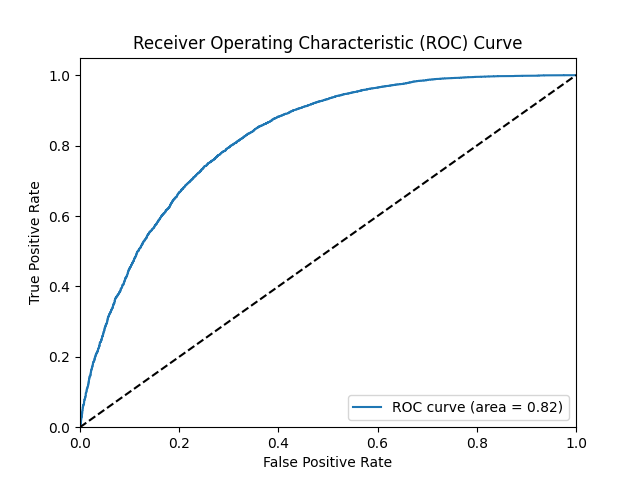
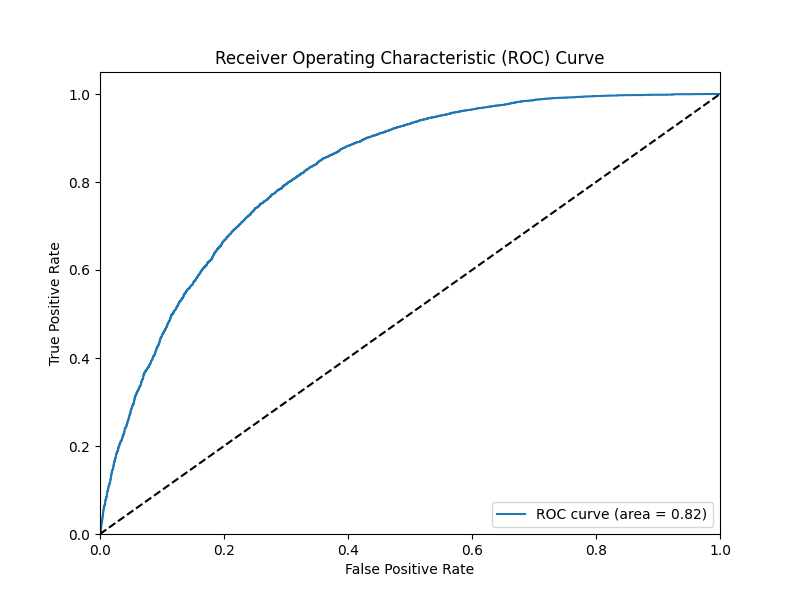
21 july

diff --git a/client/src/components/ModelImages.tsx b/client/src/components/ModelImages.tsx
@@ -1,69 +1,104 @@
-import React, { useState } from 'react';
+import React from 'react';
 
 interface ModelImagesProps {
   onClose: () => void;
 }
 
 const ModelImages: React.FC<ModelImagesProps> = ({ onClose }) => {
-  const [zoomedImage, setZoomedImage] = useState<string | null>(null);
-
-  const handleImageClick = (src: string) => {
-    setZoomedImage(src);
-  };
-
-  const handleCloseZoom = () => {
-    setZoomedImage(null);
-  };
-
   return (
-    <>
-      <div className="fixed inset-0 z-50 flex items-center justify-center bg-black bg-opacity-75 transition-opacity duration-300">
-        <div className="relative w-full max-w-4xl p-8 bg-gray-900 rounded-2xl shadow-2xl transform transition-all duration-300 scale-95 hover:scale-100">
-          <button
-            onClick={onClose}
-            className="absolute top-4 right-4 text-gray-400 hover:text-white transition-colors duration-300"
-          >
-            <svg className="w-8 h-8" fill="none" stroke="currentColor" viewBox="0 0 24 24">
-              <path strokeLinecap="round" strokeLinejoin="round" strokeWidth={2} d="M6 18L18 6M6 6l12 12" />
-            </svg>
-          </button>
-          <h2 className="text-3xl font-extrabold text-white mb-6 text-center">Model Performance</h2>
-          <div className="grid grid-cols-1 md:grid-cols-2 gap-8">
-            <div className="bg-gray-800 p-4 rounded-lg shadow-lg">
-              <h3 className="text-xl font-bold text-white mb-4 text-center">Confusion Matrix</h3>
-              <img
-                src="/confusion_matrix.png"
-                alt="Confusion Matrix"
-                className="w-full h-auto rounded-lg border-2 border-gray-700 cursor-pointer"
-                onClick={() => handleImageClick('/confusion_matrix.png')}
-              />
-            </div>
-            <div className="bg-gray-800 p-4 rounded-lg shadow-lg">
-              <h3 className="text-xl font-bold text-white mb-4 text-center">ROC Curve</h3>
-              <img
-                src="/roc_curve.png"
-                alt="ROC Curve"
-                className="w-full h-auto rounded-lg border-2 border-gray-700 cursor-pointer"
-                onClick={() => handleImageClick('/roc_curve.png')}
-              />
-            </div>
+    <div className="fixed inset-0 z-50 flex items-center justify-center bg-black bg-opacity-75 transition-opacity duration-300">
+      <div className="relative w-full max-w-7xl p-8 bg-gray-900 rounded-2xl shadow-2xl transform transition-all duration-300 scale-95 hover:scale-100 overflow-y-auto max-h-[90vh] no-scrollbar">
+        <button
+          onClick={onClose}
+          className="absolute top-4 right-4 text-gray-400 hover:text-white transition-colors duration-300"
+        >
+          <svg className="w-8 h-8" fill="none" stroke="currentColor" viewBox="0 0 24 24">
+            <path strokeLinecap="round" strokeLinejoin="round" strokeWidth={2} d="M6 18L18 6M6 6l12 12" />
+          </svg>
+        </button>
+        <h2 className="text-3xl font-extrabold text-white mb-6 text-center">Model Performance Analysis</h2>
+        <div className="grid grid-cols-1 lg:grid-cols-2 gap-8">
+          <div className="bg-gray-800 p-4 rounded-lg shadow-lg">
+            <h3 className="text-xl font-bold text-white mb-4 text-center">Learning Curves</h3>
+            <img 
+              src="/learning_curves.png" 
+              alt="Learning Curves" 
+              className="w-full h-auto rounded-lg border-2 border-gray-700 cursor-pointer"
+              onClick={() => window.open('/learning_curves.png', '_blank')}
+            />
+            <p className="text-gray-300 mt-4 text-sm">
+              Shows how the model's performance improves during training. The blue line represents training accuracy, 
+              and the green line represents validation accuracy. Close curves indicate good fit.
+            </p>
+          </div>
+          <div className="bg-gray-800 p-4 rounded-lg shadow-lg">
+            <h3 className="text-xl font-bold text-white mb-4 text-center">Feature Importance</h3>
+            <img 
+              src="/feature_importance.png" 
+              alt="Feature Importance" 
+              className="w-full h-auto rounded-lg border-2 border-gray-700 cursor-pointer"
+              onClick={() => window.open('/feature_importance.png', '_blank')}
+            />
+            <p className="text-gray-300 mt-4 text-sm">
+              Shows which features have the strongest influence on the model's predictions. 
+              Larger values indicate more important features in determining diabetes risk.
+            </p>
+          </div>
+          <div className="bg-gray-800 p-4 rounded-lg shadow-lg">
+            <h3 className="text-xl font-bold text-white mb-4 text-center">Calibration Curve</h3>
+            <img 
+              src="/calibration_curve.png" 
+              alt="Calibration Curve" 
+              className="w-full h-auto rounded-lg border-2 border-gray-700 cursor-pointer"
+              onClick={() => window.open('/calibration_curve.png', '_blank')}
+            />
+            <p className="text-gray-300 mt-4 text-sm">
+              Shows how well the predicted probabilities match actual probabilities. 
+              Closer to the diagonal line means better calibrated predictions.
+            </p>
+          </div>
+          <div className="bg-gray-800 p-4 rounded-lg shadow-lg">
+            <h3 className="text-xl font-bold text-white mb-4 text-center">Decision Boundary</h3>
+            <img 
+              src="/decision_boundary.png" 
+              alt="Decision Boundary" 
+              className="w-full h-auto rounded-lg border-2 border-gray-700 cursor-pointer"
+              onClick={() => window.open('/decision_boundary.png', '_blank')}
+            />
+            <p className="text-gray-300 mt-4 text-sm">
+              Visualizes how the model makes decisions using the top 2 most important features. 
+              Different colors represent different predicted outcomes.
+            </p>
+          </div>
+          <div className="bg-gray-800 p-4 rounded-lg shadow-lg">
+            <h3 className="text-xl font-bold text-white mb-4 text-center">Confusion Matrix</h3>
+            <img 
+              src="/confusion_matrix.png" 
+              alt="Confusion Matrix" 
+              className="w-full h-auto rounded-lg border-2 border-gray-700 cursor-pointer"
+              onClick={() => window.open('/confusion_matrix.png', '_blank')}
+            />
+            <p className="text-gray-300 mt-4 text-sm">
+              Shows the model's prediction accuracy across different classes. 
+              True positives and true negatives are shown on the diagonal.
+            </p>
+          </div>
+          <div className="bg-gray-800 p-4 rounded-lg shadow-lg">
+            <h3 className="text-xl font-bold text-white mb-4 text-center">ROC Curve</h3>
+            <img 
+              src="/roc_curve.png" 
+              alt="ROC Curve" 
+              className="w-full h-auto rounded-lg border-2 border-gray-700 cursor-pointer"
+              onClick={() => window.open('/roc_curve.png', '_blank')}
+            />
+            <p className="text-gray-300 mt-4 text-sm">
+              Shows the trade-off between true positive rate and false positive rate. 
+              A larger area under the curve (AUC) indicates better model performance.
+            </p>
           </div>
         </div>
       </div>
-
-      {zoomedImage && (
-        <div
-          className="fixed inset-0 z-50 flex items-center justify-center bg-black bg-opacity-90"
-          onClick={handleCloseZoom}
-        >
-          <img
-            src={zoomedImage}
-            alt="Zoomed"
-            className="max-w-screen-lg max-h-screen-lg"
-          />
-        </div>
-      )}
-    </>
+    </div>
   );
 };
 

diff --git a/flask-server/ml_models/logistic_regression.py b/flask-server/ml_models/logistic_regression.py
@@ -1,14 +1,16 @@
 import pandas as pd
 import numpy as np
-from sklearn.model_selection import train_test_split, GridSearchCV
+from sklearn.model_selection import train_test_split, GridSearchCV, learning_curve
 from sklearn.linear_model import LogisticRegression
 from sklearn.preprocessing import StandardScaler
 from sklearn.pipeline import Pipeline
 from sklearn.metrics import accuracy_score, classification_report, confusion_matrix, ConfusionMatrixDisplay, roc_curve, auc
+from sklearn.calibration import calibration_curve
 from imblearn.over_sampling import SMOTE
 import joblib
 import os
 import matplotlib.pyplot as plt
+import seaborn as sns
 
 MODEL_PATH = "logreg_model.joblib"
 ACCURACY_PATH = "logreg_accuracy.txt"
@@ -77,45 +79,132 @@ if __name__ == "__main__":
     grid.fit(X_train_res, y_train_res)
 
     best_model = grid.best_estimator_
+    y_pred = best_model.predict(X_test)
+    y_prob = best_model.predict_proba(X_test)
+    accuracy = accuracy_score(y_test, y_pred)
 
-    # Evaluate on training data
-    y_train_pred = best_model.predict(X_train_res)
-    train_acc = accuracy_score(y_train_res, y_train_pred)
+    # Generate learning curves
+    train_sizes, train_scores, val_scores = learning_curve(
+        best_model, X_train_res, y_train_res,
+        train_sizes=np.linspace(0.1, 1.0, 10),
+        cv=5, n_jobs=-1, scoring='accuracy'
+    )
 
-    # Evaluate on test data
-    y_test_pred = best_model.predict(X_test)
-    test_acc = accuracy_score(y_test, y_test_pred)
+    # Calculate mean and standard deviation
+    train_mean = np.mean(train_scores, axis=1)
+    train_std = np.std(train_scores, axis=1)
+    val_mean = np.mean(val_scores, axis=1)
+    val_std = np.std(val_scores, axis=1)
+
+    # Plot learning curves
+    plt.figure(figsize=(10, 6))
+    plt.plot(train_sizes, train_mean, label='Training score', color='blue', marker='o')
+    plt.fill_between(train_sizes, train_mean - train_std, train_mean + train_std, alpha=0.15, color='blue')
+    plt.plot(train_sizes, val_mean, label='Cross-validation score', color='green', marker='o')
+    plt.fill_between(train_sizes, val_mean - val_std, val_mean + val_std, alpha=0.15, color='green')
+    plt.xlabel('Training Examples')
+    plt.ylabel('Accuracy Score')
+    plt.title('Learning Curves for Logistic Regression')
+    plt.legend(loc='lower right')
+    plt.grid(True)
+    plt.savefig('../client/public/learning_curves.png')
+    print("Learning curves saved to learning_curves.png")
+    plt.close()
+
+    # Feature Importance Plot
+    feature_importance = pd.DataFrame({
+        'feature': X.columns,
+        'importance': np.abs(best_model.named_steps['logreg'].coef_[0])
+    })
+    feature_importance = feature_importance.sort_values('importance', ascending=False)
+
+    plt.figure(figsize=(12, 6))
+    sns.barplot(data=feature_importance, x='importance', y='feature')
+    plt.title('Feature Importance')
+    plt.xlabel('Absolute Coefficient Value')
+    plt.tight_layout()
+    plt.savefig('../client/public/feature_importance.png')
+    print("Feature importance plot saved to feature_importance.png")
+    plt.close()
+
+    # Calibration Curve
+    plt.figure(figsize=(10, 6))
+    prob_true, prob_pred = calibration_curve(y_test, y_prob[:, 1], n_bins=10)
+    plt.plot(prob_pred, prob_true, marker='o', label='Logistic Regression')
+    plt.plot([0, 1], [0, 1], linestyle='--', label='Perfectly Calibrated')
+    plt.xlabel('Mean Predicted Probability')
+    plt.ylabel('True Probability')
+    plt.title('Calibration Curve (Reliability Diagram)')
+    plt.legend()
+    plt.grid(True)
+    plt.savefig('../client/public/calibration_curve.png')
+    print("Calibration curve saved to calibration_curve.png")
+    plt.close()
+
+    # Decision Boundary Plot (using top 2 most important features)
+    top_features = feature_importance['feature'].iloc[:2].values
+    X_top2 = X_test[top_features]
+    
+    # Create mesh grid
+    x_min, x_max = X_top2.iloc[:, 0].min() - 1, X_top2.iloc[:, 0].max() + 1
+    y_min, y_max = X_top2.iloc[:, 1].min() - 1, X_top2.iloc[:, 1].max() + 1
+    xx, yy = np.meshgrid(np.arange(x_min, x_max, 0.1),
+                        np.arange(y_min, y_max, 0.1))
+
+    # Create feature matrix for prediction
+    X_mesh = np.c_[xx.ravel(), yy.ravel()]
+    X_mesh_full = np.zeros((X_mesh.shape[0], X.shape[1]))
+    for i, feature in enumerate(top_features):
+        feature_idx = list(X.columns).index(feature)
+        X_mesh_full[:, feature_idx] = X_mesh[:, i]
+
+    # Get predictions
+    Z = best_model.predict(X_mesh_full)
+    Z = Z.reshape(xx.shape)
+
+    # Plot decision boundary
+    plt.figure(figsize=(10, 6))
+    plt.contourf(xx, yy, Z, alpha=0.4)
+    scatter = plt.scatter(X_top2.iloc[:, 0], X_top2.iloc[:, 1], c=y_test, 
+                         alpha=0.8, edgecolor='black')
+    plt.colorbar(scatter)
+    plt.xlabel(top_features[0])
+    plt.ylabel(top_features[1])
+    plt.title('Decision Boundary using Top 2 Features')
+    plt.savefig('../client/public/decision_boundary.png')
+    print("Decision boundary plot saved to decision_boundary.png")
+    plt.close()
 
     # Save model, columns, and accuracy
     joblib.dump(best_model, MODEL_PATH)
     np.save(COLUMNS_PATH, X.columns.values)
     with open(ACCURACY_PATH, "w") as f:
-        f.write(str(test_acc))
+        f.write(str(accuracy))
 
     # Print results
-    print(f"Model saved to {MODEL_PATH}")
+    print(f"\nModel saved to {MODEL_PATH}")
     print(f"Best parameters: {grid.best_params_}")
-    print(f"Training Accuracy: {train_acc:.4f}")
-    print(f"Test Accuracy: {test_acc:.4f}")
+    print(f"Test Accuracy: {accuracy:.4f}")
     
     print("\nClassification report:")
-    print(classification_report(y_test, y_test_pred, digits=4))
+    print(classification_report(y_test, y_pred, digits=4))
 
-    # Display and save confusion matrix
-    cm = confusion_matrix(y_test, y_test_pred)
+    # Display confusion matrix
+    cm = confusion_matrix(y_test, y_pred)
+    plt.figure(figsize=(8, 6))
     disp = ConfusionMatrixDisplay(confusion_matrix=cm, display_labels=best_model.named_steps['logreg'].classes_)
     disp.plot(cmap='Blues', values_format='d')
     plt.title('Confusion Matrix - Logistic Regression (Test Set)')
     plt.savefig('../client/public/confusion_matrix.png')
-    print("Confusion matrix saved to ../client/public/confusion_matrix.png")
-
+    print("Confusion matrix saved to confusion_matrix.png")
+    plt.close()
 
     # Generate and save ROC curve
     y_score = best_model.predict_proba(X_test)[:, 1]
     fpr, tpr, _ = roc_curve(y_test, y_score)
     roc_auc = auc(fpr, tpr)
 
-    plt.figure()
+    plt.figure(figsize=(8, 6))
     plt.plot(fpr, tpr, label=f"ROC curve (area = {roc_auc:.2f})")
     plt.plot([0, 1], [0, 1], 'k--')
     plt.xlim([0.0, 1.0])
@@ -125,6 +214,7 @@ if __name__ == "__main__":
     plt.title('Receiver Operating Characteristic (ROC) Curve')
     plt.legend(loc="lower right")
     plt.savefig('../client/public/roc_curve.png')
-    print("ROC curve saved to ../client/public/roc_curve.png")
+    print("ROC curve saved to roc_curve.png")
+    plt.close()
 
     plt.show()
